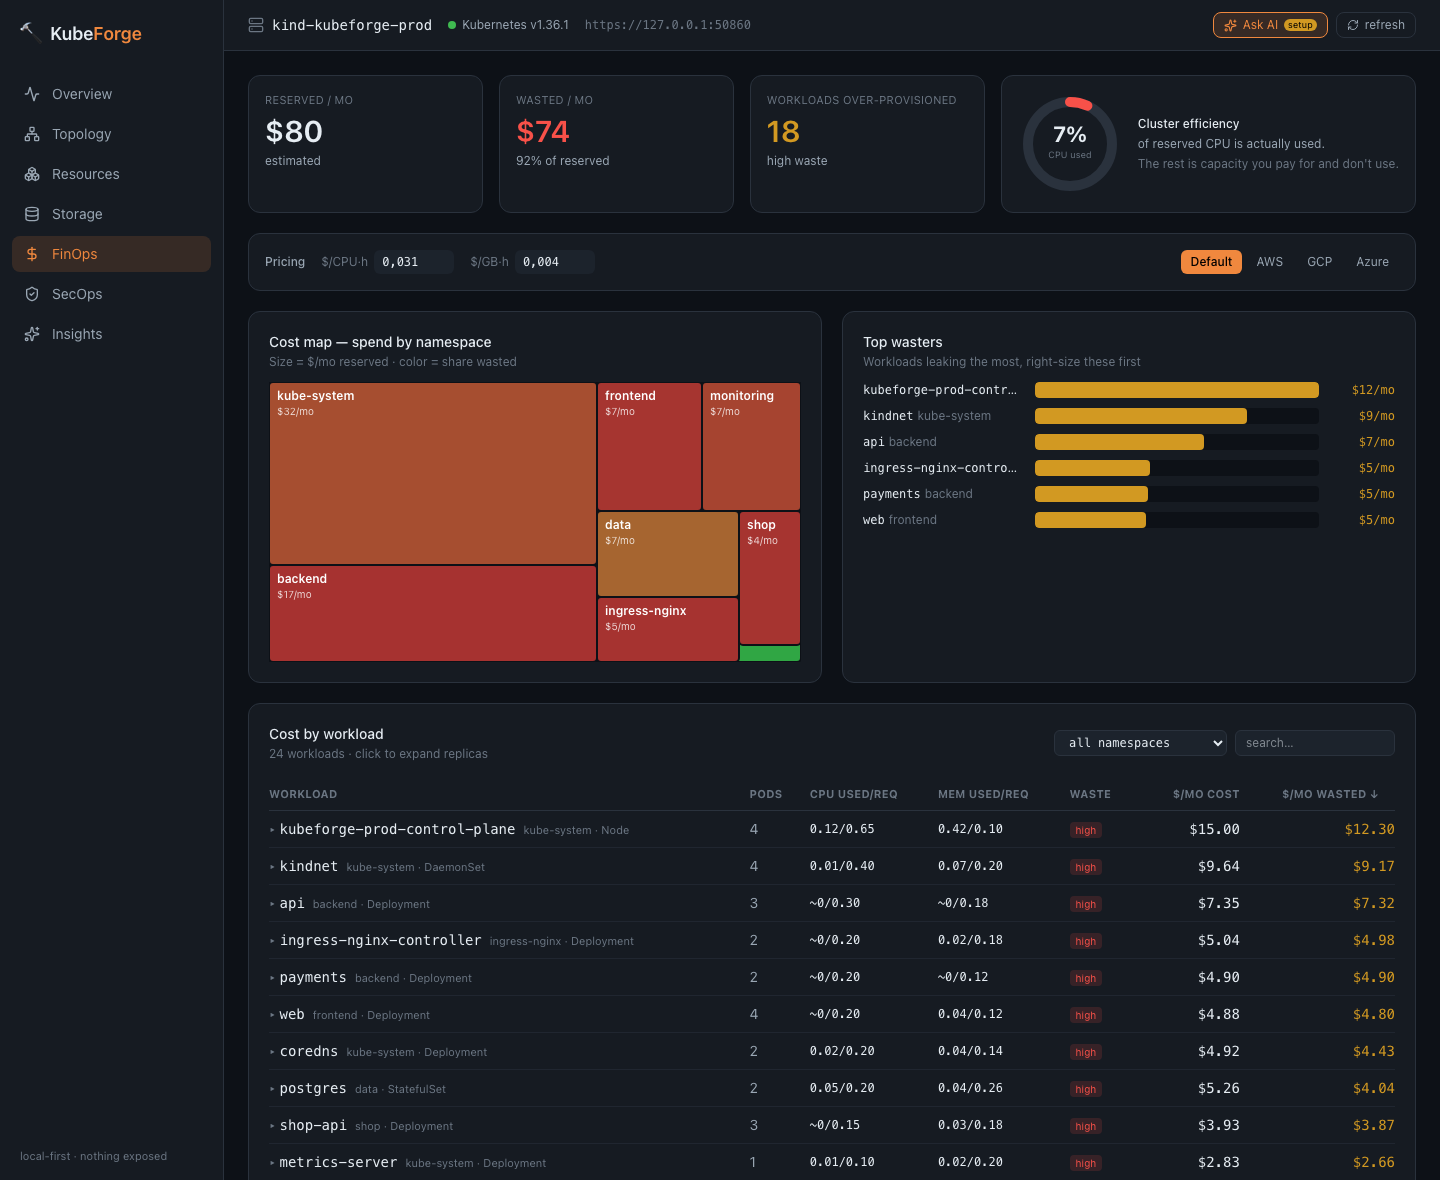
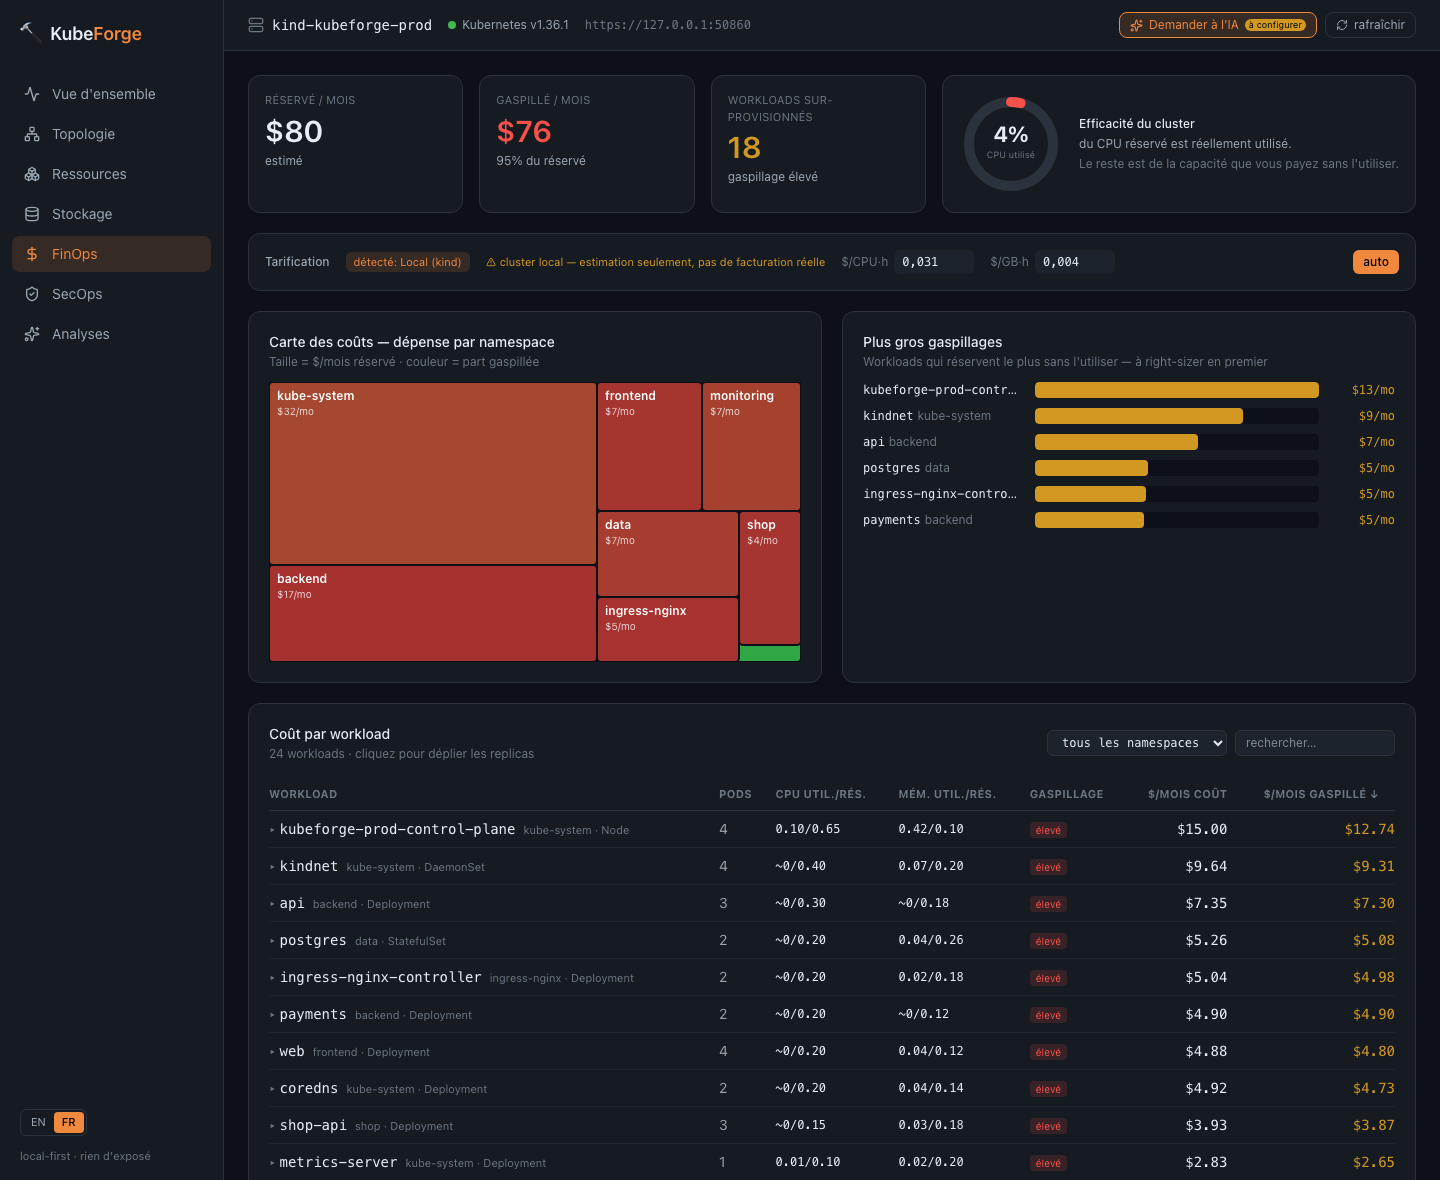
docs: document scaling, auto-pricing, grouping & bilingual UI
Updates both READMEs (EN+FR) to explain everything shipped for large clusters
and beyond:

- New "Built for real clusters" section: grouped findings, honest posture score,
  capped layers, paginated tables, cached scans — with the why for each.
- New "Bilingual (EN/FR)" section.
- FinOps/SecOps descriptions updated: cloud-price auto-detection with honest
  local-estimate flag; posture score from your workloads only; finding grouping,
  system-noise hiding and CSV export.
- Refreshed FinOps + SecOps screenshots (showing the grouped, translated UI).

diff --git a/README.fr.md b/README.fr.md
@@ -50,8 +50,8 @@ Le pari est simple : ne pas faire _un énième navigateur de ressources_. Faire 
 - **Topology** — cinq lentilles sur le même graphe :
   - **Resource stack** _(la vedette)_ — un namespace en graphe empilé, du haut niveau (Ingress) au bas niveau (Secrets, RBAC, stockage). Les nœuds portent des alertes SecOps inline et un badge `CRD` pour les ressources d'opérateurs ; survolez pour les infos (IP, image, coût mensuel), cliquez pour le manifeste live (secrets masqués) et les events récents.
   - **Namespaces / Workload graph / By node / Heatmap** — le même graphe en cartes par namespace, un graphe force-directed de workloads, une vue par node, ou une heatmap de parc qui passe l'échelle des 500+ pods.
-- **FinOps** — un vrai dashboard de coûts : jauge d'efficacité (utilisé vs réservé), prix éditables avec presets cloud, coût **groupé par workload** (dépliable vers les pods) avec filtre/recherche/tri, un graphe des top gaspilleurs, et la treemap du coût par namespace.
-- **SecOps** — un scan de posture déterministe avec un **score de 0 à 100** : conteneurs privilégiés, `hostNetwork`/`hostPID`, capabilities dangereuses, exécution en root, tags d'image mutables, namespaces sans NetworkPolicy, cluster-admin mal attribué. Filtre par sévérité/catégorie/texte ; chaque finding a un _pourquoi_, un correctif, et un saut vers le Resource stack.
+- **FinOps** — un vrai dashboard de coûts : jauge d'efficacité (utilisé vs réservé), coût **groupé par workload** (dépliable vers les pods) avec filtre/recherche/tri, un graphe des plus gros gaspillages, et la treemap du coût par namespace. La tarification **détecte automatiquement ton cloud** via le `providerID` des nodes (AWS/GCP/Azure) et applique les prix correspondants — un cluster local (kind/minikube) est signalé honnêtement « estimation seulement, pas de facturation réelle ». Tu peux toujours surcharger le prix par cœur / par Go.
+- **SecOps** — un scan de posture déterministe avec un **score de 0 à 100** calculé sur _tes_ workloads (namespaces système exclus, pour que les pods privilégiés de Kubernetes ne plombent pas ta note). Il signale : conteneurs privilégiés, `hostNetwork`/`hostPID`, capabilities dangereuses, exécution en root, tags d'image mutables, namespaces sans NetworkPolicy, cluster-admin mal attribué. Les findings identiques sont **groupés** (« peut s'exécuter en root · 33 objets » au lieu de 33 lignes), le bruit système est masqué par défaut, chaque finding a un _pourquoi_ + un correctif et un saut vers le Resource stack, et tout le rapport s'exporte en **CSV**.
 - **Storage** — PV, PVC et StorageClass au même endroit, avec les volumes orphelins et les claims non montés mis en évidence et **chiffrés en coût** (du stockage que vous payez sans l'utiliser).
 - **Resources** — un navigateur universel bâti sur le discovery + dynamic client : il liste tout ce que l'API server connaît, y compris les ressources custom.
 - **Insights** — les tendances dans le temps, enregistrées localement en SQLite, plus une **couche IA optionnelle** (voir plus bas).
@@ -124,6 +124,20 @@ Les chiffres d'usage FinOps et la bande réservé-vs-utilisé ont besoin de [met
 
 ---
 
+## Pensé pour les vrais clusters
+
+Une démo tient sur trois pods ; un vrai cluster en a des centaines. KubeForge est conçu pour rester lisible et rapide à cette échelle :
+
+- **Findings groupés.** SecOps regroupe les findings identiques — « peut s'exécuter en root · 33 objets » est une carte dépliable, pas 33. Les namespaces système (kube-system, kindnet…) sont masqués par défaut car ils sont privilégiés _par design_ et noieraient tes vrais problèmes.
+- **Score de posture honnête.** La note 0–100 est calculée sur tes workloads uniquement, pour que les pods système privilégiés de Kubernetes ne tirent pas chaque cluster vers un « F ».
+- **Couches plafonnées.** Le Resource stack affiche les N premiers objets par couche avec un « +N de plus », et remonte les problèmes (en panne, puis à risque) en tête — un namespace de 100 pods reste lisible sans jamais cacher ce qui compte. La heatmap de topologie passe l'échelle des 500+ pods.
+- **Tables paginées.** Les longues listes (la table de pods de la vue d'ensemble) sont recherchables et paginées : l'UI s'affiche instantanément au lieu d'un mur de lignes.
+- **Scans mis en cache.** Les scans complets (SecOps, FinOps, Stockage) sont mémorisés quelques secondes : la rafale d'appels d'une seule vue se réduit à un vrai scan.
+
+## Bilingue (FR / EN)
+
+Toute l'UI est disponible en **français et en anglais** — un bouton dans la barre latérale, la langue du navigateur détectée au premier lancement, ton choix mémorisé. Les findings de sécurité, les libellés de coût, le resource stack — tout est traduit, pas seulement les menus.
+
 ## Comment c'est construit
 
 - **Go + client-go** pour le backend. Un client typé pour les vues courantes, et le **discovery + dynamic client** pour le navigateur de ressources universel — c'est comme ça qu'il liste des CRD dont il n'a jamais entendu parler.
@@ -136,7 +150,7 @@ Les chiffres d'usage FinOps et la bande réservé-vs-utilisé ont besoin de [met
 
 ## Statut & roadmap
 
-KubeForge est jeune et avance vite. Tous les piliers ci-dessus fonctionnent de bout en bout, il s'installe via un cask Homebrew et un binaire de release, et les dashboards Resource stack, FinOps et SecOps sont validés sur un vrai cluster multi-nodes. Au programme ensuite : signaux d'inodes et de pression disque par node, alertes prédictives de saturation du stockage, et des arêtes CRD plus riches dans le stack.
+KubeForge est jeune et avance vite. Tous les piliers ci-dessus fonctionnent de bout en bout, il s'installe via un cask Homebrew et un binaire de release, il est bilingue (FR/EN), et les dashboards Resource stack, FinOps et SecOps sont validés sur un vrai cluster multi-nodes avec groupement, pagination, détection automatique des prix cloud et cache des scans pour l'échelle. Au programme ensuite : signaux d'inodes et de pression disque par node, alertes prédictives de saturation du stockage, et des arêtes CRD plus riches dans le stack.
 
 Les issues et les idées sont les bienvenues.
 

diff --git a/README.md b/README.md
@@ -50,8 +50,8 @@ The bet is simple: don't build _yet another resource browser_. Build the three o
 - **Topology** — five lenses over the same cluster graph:
   - **Resource stack** _(the headline)_ — a namespace as a layered graph, high-level (Ingress) down to low-level (Secrets, RBAC, storage). Nodes carry inline SecOps warnings and a `CRD` badge for operator resources; hover for facts (IP, image, monthly cost), click for the live manifest (secrets redacted) and recent events.
   - **Namespaces / Workload graph / By node / Heatmap** — the same graph as namespace cards, a force-directed workload graph, a per-node view, or a fleet heatmap that scales past 500 pods.
-- **FinOps** — a real cost dashboard: a cluster-efficiency gauge (used vs reserved CPU), editable pricing with cloud presets, cost **grouped by workload** (expandable to pods) with filter/search/sort, a top-wasters chart, and the spend-by-namespace treemap.
-- **SecOps** — a deterministic security-posture scan with a **0–100 posture score**: privileged containers, `hostNetwork`/`hostPID`, dangerous capabilities, run-as-root, mutable image tags, namespaces with no NetworkPolicy, cluster-admin handed to the wrong subjects. Filter by severity/category/text; every finding has a plain _why_, a fix, and a jump into the Resource stack.
+- **FinOps** — a real cost dashboard: a cluster-efficiency gauge (used vs reserved CPU), cost **grouped by workload** (expandable to pods) with filter/search/sort, a top-wasters chart, and the spend-by-namespace treemap. Pricing **auto-detects your cloud** from the nodes' `providerID` (AWS/GCP/Azure) and applies matching defaults — a local cluster (kind/minikube) is honestly flagged "estimate only, no real billing". You can still override the per-core / per-GB price.
+- **SecOps** — a deterministic security-posture scan with a **0–100 posture score** computed from _your_ workloads (system namespaces excluded, so Kubernetes' own privileged pods don't sink your grade). It flags privileged containers, `hostNetwork`/`hostPID`, dangerous capabilities, run-as-root, mutable image tags, namespaces with no NetworkPolicy, and cluster-admin on the wrong subjects. Identical findings are **grouped** ("may run as root · 33 objects" instead of 33 rows), system noise is hidden by default, every finding has a plain _why_ + fix and a jump into the Resource stack, and the whole report exports to **CSV**.
 - **Storage** — PVs, PVCs and StorageClasses in one place, with orphaned volumes and unmounted claims called out and **costed** (that's storage you're paying for and not using).
 - **Resources** — a universal browser built on the discovery + dynamic client, so it lists anything the API server knows about, including custom resources.
 - **Insights** — trends over time, recorded locally in SQLite, plus an **opt-in AI layer** (see below).
@@ -124,6 +124,20 @@ FinOps usage numbers and the reserved-vs-used band need [metrics-server](https:/
 
 ---
 
+## Built for real clusters
+
+A demo looks fine on three pods; a real cluster has hundreds. KubeForge is built to stay readable and fast at that size:
+
+- **Grouped findings.** SecOps buckets identical findings — "may run as root · 33 objects" is one expandable card, not 33. System namespaces (kube-system, kindnet…) are hidden by default because they're privileged _by design_ and would otherwise bury your own issues.
+- **Honest posture score.** The 0–100 grade is computed from your workloads only, so Kubernetes' own privileged system pods don't drag every cluster to an "F".
+- **Capped layers.** The Resource stack shows the first N objects per layer with a "+N more" expander, and sorts problems (unhealthy, then risky) to the front — so a 100-pod namespace stays legible and never hides what needs attention. The topology heatmap scales past 500 pods.
+- **Paginated tables.** Long lists (the Overview pod table) are searchable and paginated, so the UI renders instantly instead of a wall of rows.
+- **Cached scans.** The whole-cluster scans (SecOps, FinOps, Storage) are memoized for a few seconds, so the burst of calls a single view fires collapses into one real scan.
+
+## Bilingual (EN / FR)
+
+The whole UI is available in **English and French** — a toggle in the sidebar, your browser's language detected on first run, your choice remembered. Security findings, cost labels, the resource stack — everything translates, not just the menus.
+
 ## How it's built
 
 - **Go + client-go** for the backend. A typed client for the common views, and the **discovery + dynamic client** for the universal resource browser — that's how it lists CRDs it's never heard of.
@@ -136,7 +150,7 @@ FinOps usage numbers and the reserved-vs-used band need [metrics-server](https:/
 
 ## Status & roadmap
 
-KubeForge is young and moving fast. All the pillars above work end-to-end, it ships as a Homebrew cask and a release binary, and the Resource stack, FinOps and SecOps dashboards are validated against a real multi-node cluster. On the list next: per-node inode and disk-pressure signals, predictive storage-saturation alerts, and richer CRD-aware edges in the stack.
+KubeForge is young and moving fast. All the pillars above work end-to-end, it ships as a Homebrew cask and a release binary, it's bilingual (EN/FR), and the Resource stack, FinOps and SecOps dashboards are validated against a real multi-node cluster with grouping, pagination, cloud-price auto-detection and scan caching for scale. On the list next: per-node inode and disk-pressure signals, predictive storage-saturation alerts, and richer CRD-aware edges in the stack.
 
 Issues and ideas are welcome.
 
